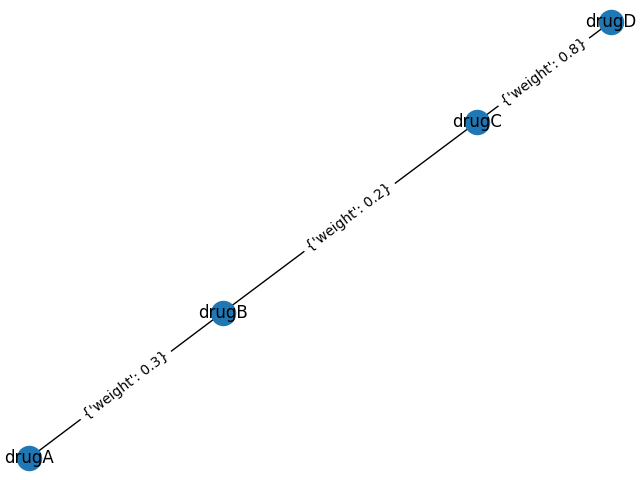
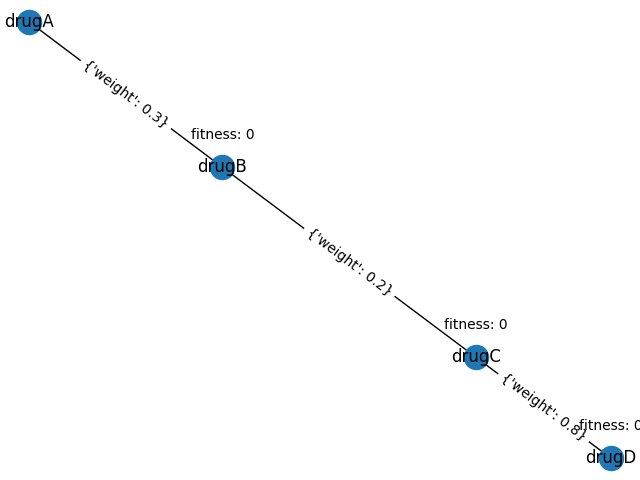
plots are nice

diff --git a/graph-model/graph.py b/graph-model/graph.py
@@ -124,7 +124,10 @@ class Graph():
         G.add_weighted_edges_from(self.all_edges)
         return G
 
-    def plot(self):
+
+
+
+    def plot(self, fitness=False):
         import matplotlib.pyplot as plt
         G = self.get_networkx_graph()
         pos = nx.spring_layout(G)
@@ -134,6 +137,16 @@ class Graph():
         # Create edge label Dictionary to label edges:
         edge_labels = nx.get_edge_attributes(G,'weight')
         nx.draw_networkx_edge_labels(G, pos, labels = edge_labels)
+
+        # -------- Draw fitness labels above -----
+
+        pos_higher = {}
+        y_offset = 0.07 # Might have to play around with
+        for k, v in pos.items():
+            pos_higher[k] = (v[0], v[1] + y_offset)        
+
+        fit = {n: f'fitness: {n.fitness}' for n in self.all_nodes}
+        nx.draw_networkx_labels(G, pos=pos_higher, font_size=10, font_color='black', labels=fit)
 
         plt.savefig('Graph Plot.png')
 
@@ -202,10 +215,10 @@ class Graph():
             TODO: 
             Applies treatment to each node within depth [depth]
         """
-        sadf = nx.ego_graph(self.nxgraph, target_node, depth, center=False, undirected=True, distance='weight')
-        print(f'considering nodes ')
-        for i in sadf:
-            print(i)
+        nodes = nx.ego_graph(self.nxgraph, target_node, depth, center=False, undirected=True, distance='weight')
+        print(f'Considering nodes: ')
+        for curr in nodes:
+            print(curr.colony.name)
 
              
             

diff --git a/graph-model/main.py b/graph-model/main.py
@@ -83,14 +83,9 @@ class Simulation():
         """ Takes in graph and evolves graph using doctor strategy
         """                
         target_node = self.doctor()
-        print(f'Target Node: {target_node}')
-        self.graph.apply_medicine(target_node, 0.2)
+        print(f'Target Node: {target_node.colony.name}')
+        self.graph.apply_medicine(target_node, 0.9)
         
-
-        
-
-
-
 
     def log(self):
         for node in self.graph.nxgraph.nodes():
@@ -123,11 +118,10 @@ if __name__ == "__main__":
 
     sim = Simulation(env, graph, MAX_TIME)
     for t in range(MAX_TIME):
-        sim.graph.plot()
+        print('-'*10 + f'SIMULATION TIME {t}' + '-'*10)
+        sim.graph.plot(fitness=True)
         sim.update_fitness()
         sim.evolve() # Want to pass in doctor strategy 
-
-
 
 
     # Let doctor prescribe every 5 time intervals
